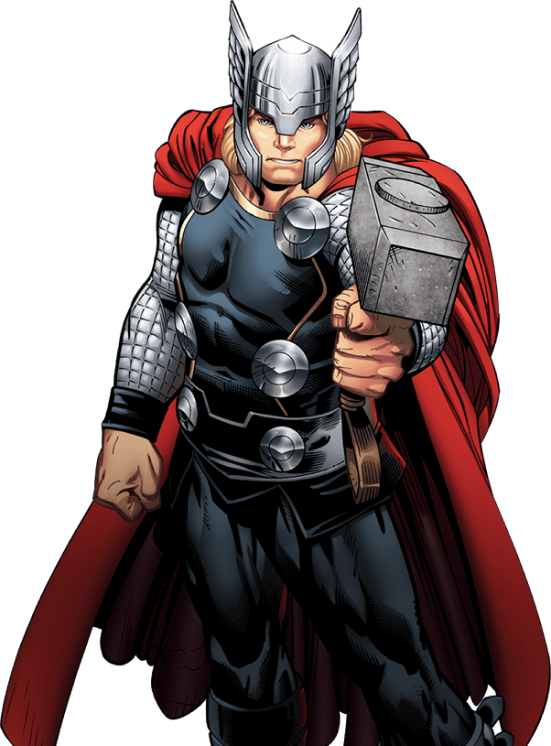
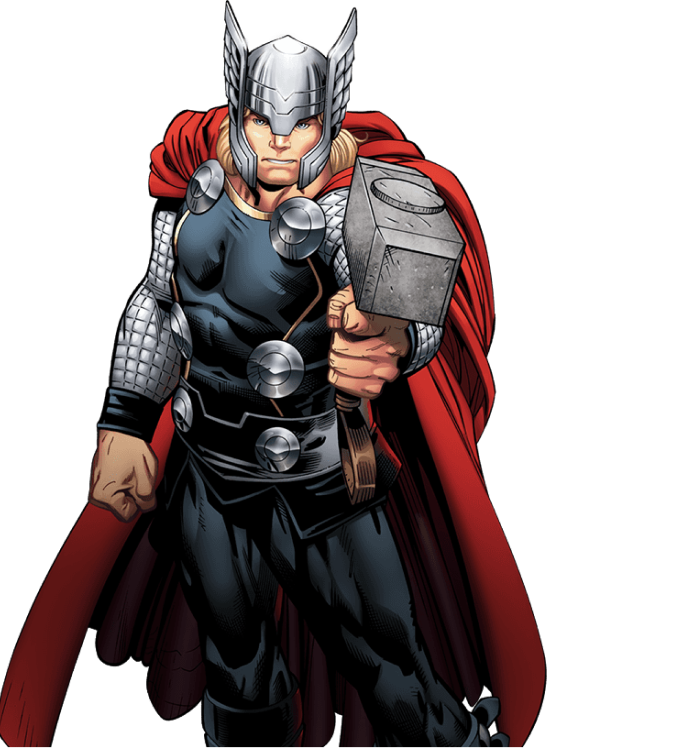
update

diff --git a/CSS/rond.css b/CSS/rond.css
@@ -63,6 +63,7 @@ body > div#wrapper > div#container {
     justify-content: center;
     align-items: center;
     align-content: space-around;
+    /* overflow: hidden; */
     margin: 0 auto;
     width: 100vw;
     max-width: 100%;
@@ -78,6 +79,7 @@ div#container > div.radar {
     justify-content: center;
     align-items: center;
     margin-top: 5em;
+    /* margin-right: 1vw; */
     /*apparence*/
     width: max(37vw,255px);
     height: max(37vw,255px);
@@ -138,6 +140,7 @@ rect {
 .radar div.name {
     position: absolute;
 }
+
 .radar div.name > p {
     /*position*/
     position: absolute;
@@ -225,7 +228,7 @@ div#container > div.remaining_time {
     align-items: center;
     box-sizing: border-box;
     z-index: 2;
-    margin-right: 10em;
+    margin-right: 7.5vw;
     /*apparence*/
     /* Version JOEY V1 */
     /* width: max(25vw,170px);
@@ -240,7 +243,8 @@ div#container > div.remaining_time img#hero {
     z-index: 3;
     /*apparence*/
     width: auto;
-    height: 680px;
+    /* vh pour s'adapter aux plus petits écrans */
+    height: 65vh;
     /*     width:max(18vw,120px);
     height:max(18vw,120px); */
 }
@@ -271,6 +275,7 @@ div#container > div.remaining_time > div.info_time > p.info {
     cursor: pointer;
     opacity: 1;
     font-size: 1.2em;
+    padding-left: 2em;
 }
 /*Lancement de l'animation au clic */
 div#container > div.remaining_time > div.info_time > p.spoiler {
@@ -299,7 +304,7 @@ a#Poweroff > img {
 
     div#container > div.remaining_time img#hero {
         height: 320px;
-        margin-top: 5em;
+        margin-top: 2.5em;
     }
 
     div#container > div.remaining_time {
@@ -307,8 +312,13 @@ a#Poweroff > img {
         justify-content: space-between;
     }
 
-    /* div#container > div.radar {
-        margin-top: 15em;
+    div#container > div.radar {
+        margin-top: 30vh;
+        margin-bottom: 2em;
+    }
+
+    /* div#wrapper > div#mainHeader img {
+        margin-bottom: 100vh;
     } */
     
 }

diff --git a/rond.html b/rond.html
@@ -20,10 +20,10 @@
 <body>
 
     <div id="wrapper">
-        <!-- Le header avec les iamges --> 
+        <!-- Le header avec les images --> 
         <header>
             <div id="mainHeader">
-                <img src="assets/mainHeader.png" alt="bacground du header de la page">
+                <img src="assets/mainHeader.png" alt="background du header de la page">
                     <div id="logoAndNameShield">
                         <img src="assets/logo_shield.svg" alt="Le logo du shield (marvel) en blanc">
                         <div>
